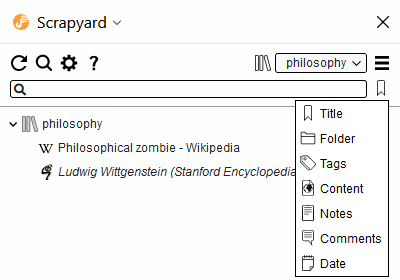
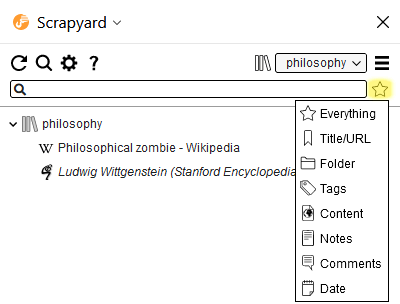
added the universal search mode

diff --git a/addon/search.js b/addon/search.js
@@ -3,6 +3,7 @@ import {ENDPOINT_TYPES, EVERYTHING, NODE_TYPE_GROUP, NODE_TYPE_BOOKMARK} from ".
 import {openContainerTab} from "./utils_browser.js";
 import {Bookmark} from "./bookmarks_bookmark.js";
 
+export const SEARCH_MODE_UNIVERSAL = 0;
 export const SEARCH_MODE_TITLE = 1;
 export const SEARCH_MODE_TAGS = 2;
 export const SEARCH_MODE_CONTENT = 3;
@@ -18,6 +19,48 @@ class SearchProvider {
 
     isInputValid(text) {
         return text && text.length > 2;
+    }
+}
+
+export class UniversalSearchProvider extends SearchProvider {
+    constructor(shelf) {
+        super(shelf);
+
+        this.titleProvider = new TitleSearchProvider(shelf);
+        this.folderProvider = new FolderSearchProvider(shelf);
+        this.tagProvider = new TagSearchProvider(shelf);
+        this.contentProvider = new ContentSearchProvider(shelf, "content");
+        this.notesProvider = new ContentSearchProvider(shelf, "notes");
+        this.commentsProvider = new ContentSearchProvider(shelf, "comments");
+        this.dateProvider = new DateSearchProvider(shelf);
+
+        this.providers = [
+            this.titleProvider,
+            this.folderProvider,
+            this.tagProvider,
+            this.contentProvider,
+            this.notesProvider,
+            this.commentsProvider,
+            this.dateProvider
+        ];
+    }
+
+    search(text) {
+        const availableProviders = this.providers.filter(p => p.isInputValid(text));
+        const results = availableProviders.map(p => p.search(text));
+
+        return Promise.all(results).then(results => {
+            results = results.reduce((acc, arr) => [...acc, ...arr], []);
+            results = results.filter((n, i, a) => this._indexByUUID(a, n.uuid) === i); // distinct
+            return results;
+        });
+    }
+
+    _indexByUUID(nodes, uuid) {
+        for (let i = 0; i < nodes.length; ++i) {
+            if (nodes[i].uuid === uuid)
+                return i;
+        }
     }
 }
 
@@ -148,8 +191,8 @@ export class SearchContext {
     constructor(tree) {
         this.tree = tree;
         this._previousInput = "";
-        this.searchMode = SEARCH_MODE_TITLE;
-        this.provider = new TitleSearchProvider(EVERYTHING);
+        this.searchMode = SEARCH_MODE_UNIVERSAL;
+        this.provider = new UniversalSearchProvider(EVERYTHING);
     }
 
     inSearch() {
@@ -175,6 +218,9 @@ export class SearchContext {
         this.shelf = shelf;
 
         switch (search_mode) {
+            case SEARCH_MODE_UNIVERSAL:
+                this.provider = new UniversalSearchProvider(shelf);
+                break;
             case SEARCH_MODE_TITLE:
                 this.provider = new TitleSearchProvider(shelf);
                 break;

diff --git a/addon/ui/locales/en/help.html b/addon/ui/locales/en/help.html
@@ -182,7 +182,7 @@
         may want to select the preset "Same site" in the "Include links" window
         to filter out all external URLs.</p>
 
-    <p>To abort the ongoing site capture process, use the corresponding item from the sidebar
+    <p>To abort the ongoing capture process, use the corresponding item from the sidebar
     shelf menu: </p>
 
     <p style="text-align: center">
@@ -210,10 +210,16 @@
 
     <h3>Search</h3>
     <p>The search input field at the Scrapyard sidebar allows filtering bookmarks of the current shelf
-        by content and various attributes.
+        by content and various other attributes. Use the "Everything" search mode (default) to filter bookmarks
+        by all available attributes.
         Use the "Everything" shelf to search through all bookmarks. Although the Sidebar filter is
         reasonably fast, it matches all items that contain every entered word longer than 2 characters
         in any order and distance. Use the full-text search if you need exact results.<p>
+
+
+    <p style="text-align: center">
+        <img src="images/search-sidebar.png">
+    </p>
 
     <p>Filtering by date supports simple queries:</p>
 
@@ -223,10 +229,6 @@
         <li><span class="query"><i>after</i> 2021-02-24</span> - after the specified date (the specified date is not included).</li>
         <li><span class="query"><i>between</i> 2021-02-24 <i>and</i> 2021-03-24</span> - between the specified dates (the specified dates are included).</li>
     </ul>
-
-    <p style="text-align: center">
-        <img src="images/search-sidebar.png">
-    </p>
 
     <p>Additionally, it is possible to search through all bookmarks by title or URL from the Firefox
         URL-bar after entering the special "scr" keyword followed by a space:</p>
@@ -265,7 +267,7 @@
         built-in bookmark manager. It is possible to attach comments and TODO states to Firefox
         bookmarks displayed in Scrapyard, although they will be lost if the bookmarks are deleted
         from the Firefox UI, or after the "Enable Firefox bookmarks integration" option in settings
-        is unchecked. Firefox bookmarks are included in the export as a separate shelf, so import
+        is unchecked. Firefox bookmarks are included in the export as a separate shelf, so an import
         will leave the current Firefox bookmark state intact.
     </p>
 

diff --git a/addon/ui/sidebar.html b/addon/ui/sidebar.html
@@ -66,9 +66,10 @@
 					<input type="text" id="search-input" >
                     <i id="search-input-clear">&#xF00D;</i>
 				</div>
-				<img src="../icons/bookmark.svg" id="search-mode-switch" title="Search Mode" class="midnight-filter">
+				<img src="../icons/star.svg" id="search-mode-switch" title="Search Mode" class="midnight-filter">
                 <div id="search-mode-menu" class="simple-menu" style="display: none">
-                    <img class="search-icon midnight-filter-menu" src="../icons/bookmark.svg"><div id="shelf-menu-search-title">Title</div>
+                    <img class="search-icon midnight-filter-menu" src="../icons/star.svg"><div id="shelf-menu-search-universal">Everything</div>
+                    <img class="search-icon midnight-filter-menu" src="../icons/bookmark.svg"><div id="shelf-menu-search-title">Title/URL</div>
                     <img class="search-icon midnight-filter-menu" src="../icons/filter-folder.svg"><div id="shelf-menu-search-folder">Folder</div>
                     <img class="search-icon midnight-filter-menu" src="../icons/tags.svg"><div id="shelf-menu-search-tags">Tags</div>
                     <img class="search-icon midnight-filter-menu" src="../icons/content-web.svg"><div id="shelf-menu-search-content">Content</div>

diff --git a/addon/ui/sidebar.js b/addon/ui/sidebar.js
@@ -11,7 +11,7 @@ import {
     SEARCH_MODE_FOLDER,
     SEARCH_MODE_NOTES,
     SEARCH_MODE_TAGS,
-    SEARCH_MODE_TITLE,
+    SEARCH_MODE_TITLE, SEARCH_MODE_UNIVERSAL,
     SearchContext
 } from "../search.js";
 
@@ -103,6 +103,13 @@ window.onload = async function () {
     $("#search-mode-switch").click(() => {
         $("#shelf-menu").hide();
         $("#search-mode-menu").toggle();
+    });
+
+    $("#shelf-menu-search-universal").click(() => {
+        $("#search-mode-switch").prop("src", "/icons/star.svg");
+        $("#search-input").attr("placeholder", "");
+        context.setMode(SEARCH_MODE_UNIVERSAL, shelfList.selectedShelfName);
+        performSearch();
     });
 
     $("#shelf-menu-search-title").click(() => {
